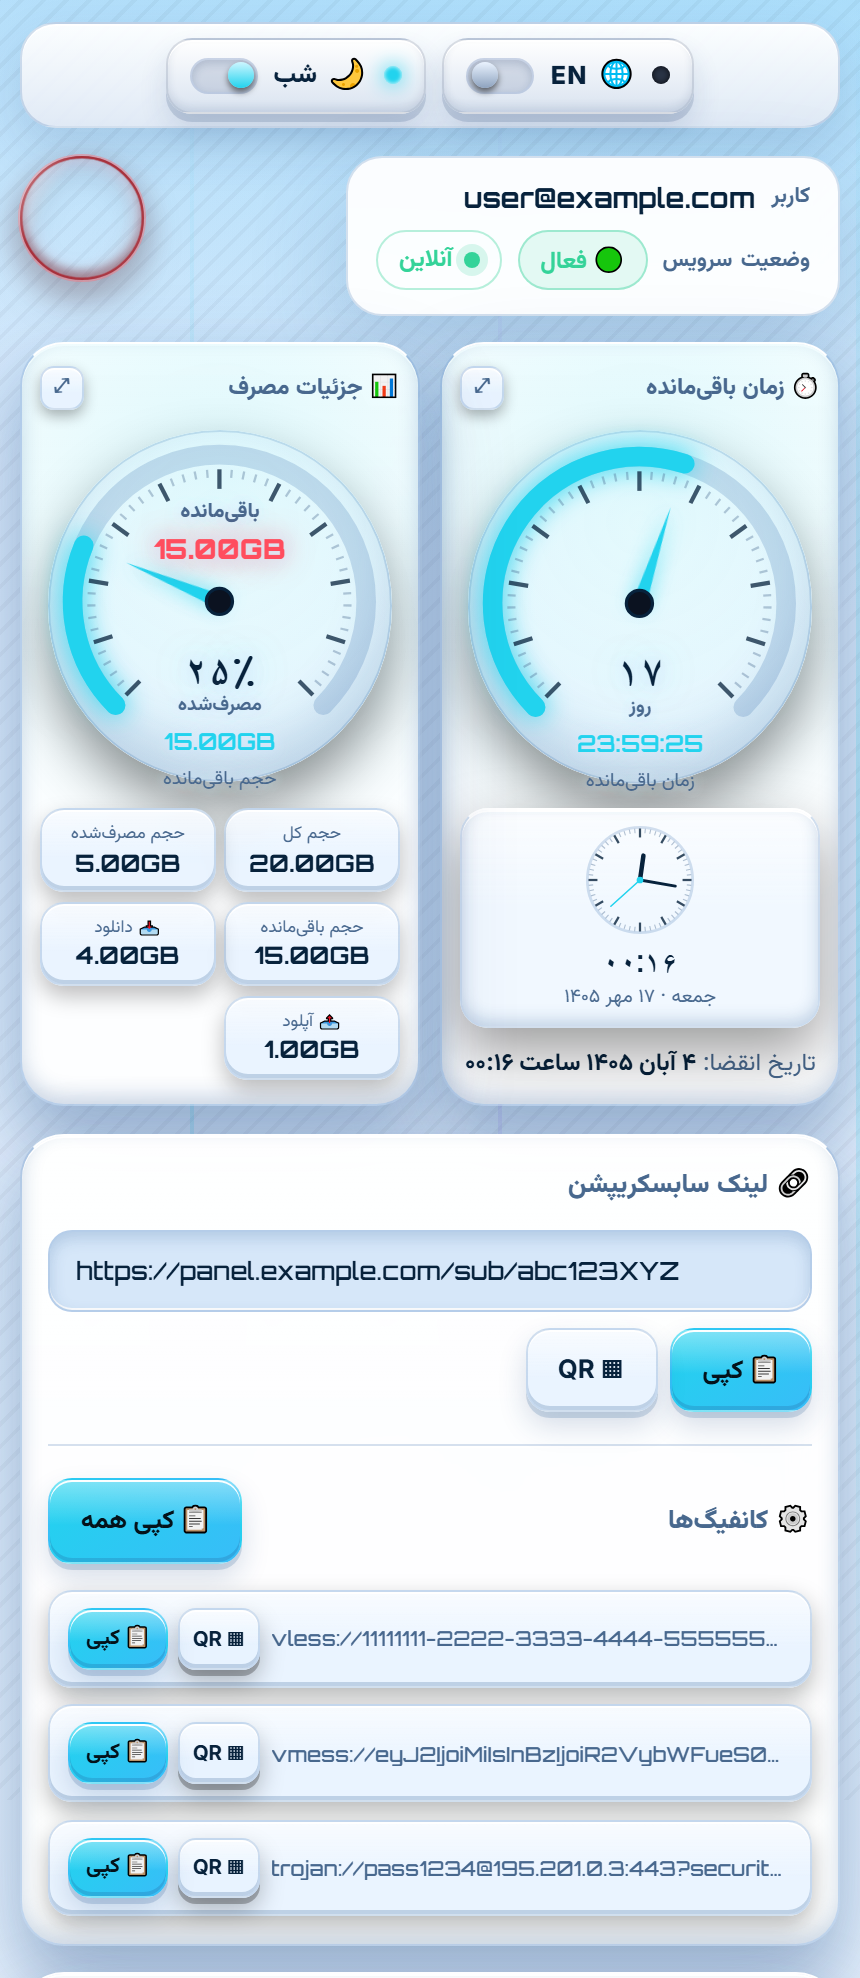
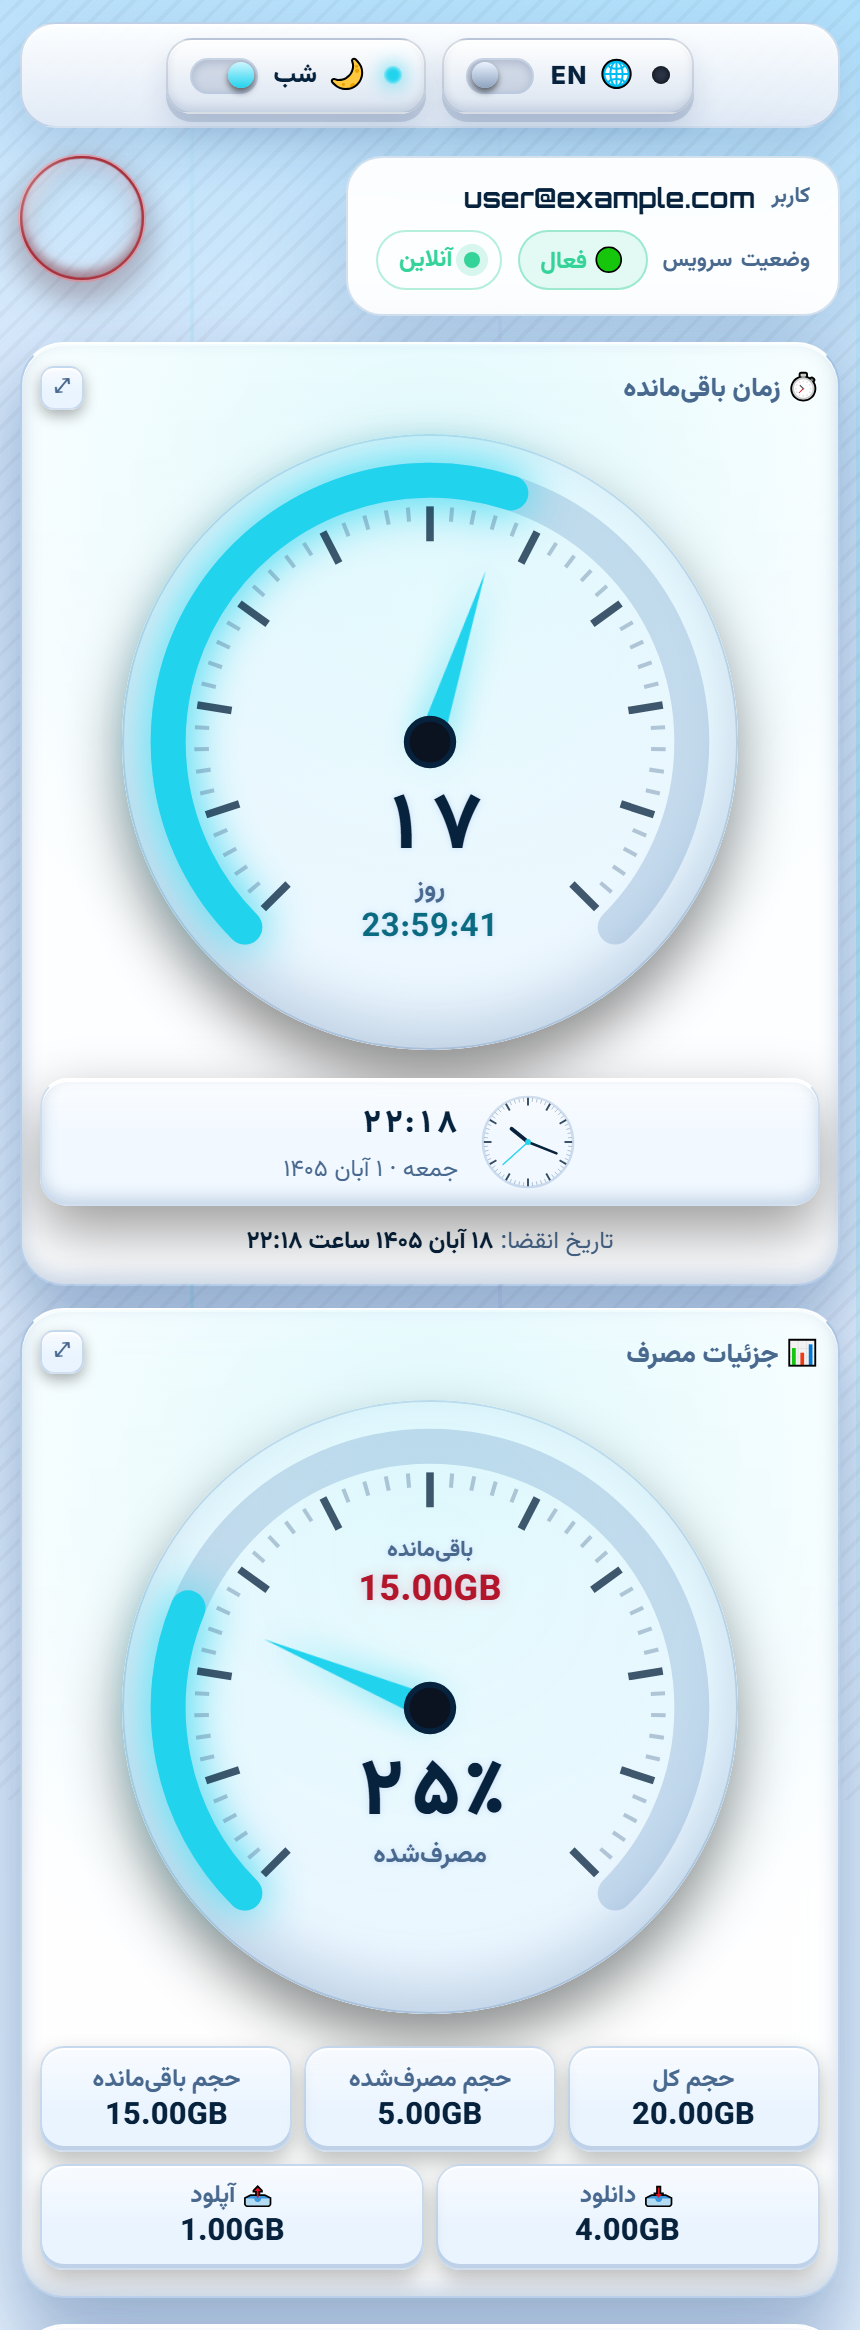
Speed: make the dial numbers readable on phones and in day mode
The remaining-time and usage figures were set in Orbitron at 9-13px and sized
off the viewport, so on a phone they overflowed the dial and in day mode the
cyan/red text sat at 1.7:1 and 3:1 contrast against the pale dial.

Numbers now use Vazirmatn with tabular digits and are measured against the dial
(cqw) so they scale with it instead of spilling over the rim; phones get one
card per row, the duplicate captions inside the dial are gone, the liveness
blink is a slow glow, and day mode gets darker inks for text.

🤖 Generated with Codebuff

diff --git a/pages/speed/index.html b/pages/speed/index.html
@@ -39,6 +39,13 @@
       --gloss: rgba(255, 255, 255, 0.09);
       --emboss-drop: 0 16px 30px rgba(0, 0, 0, 0.5);
       --font-dig: "Orbitron", "Inter", monospace;
+      /* numbers and labels you have to read at a glance: a plain UI face with
+         tabular digits — the wide sci-fi display font is unreadable at 9-13px */
+      --font-read: "Vazirmatn", "Inter", system-ui, sans-serif;
+      /* text on the dial: the neon accents are for strokes and glows, they are
+         too light to carry small text (especially in day mode) */
+      --accent-ink: var(--accent);
+      --bad-ink: var(--bad);
       --radius: 22px;
     }
 
@@ -59,6 +66,10 @@
       --emboss-lo: rgba(30, 80, 140, 0.22);
       --gloss: rgba(255, 255, 255, 0.7);
       --emboss-drop: 0 16px 28px rgba(25, 70, 130, 0.22);
+      /* daylight needs clearly darker ink: cyan/red on a pale blue page drops to
+         ~2:1 contrast, which is what made the dial values hard to read */
+      --accent-ink: #0a6a80;
+      --bad-ink: #b3152b;
     }
 
     * { box-sizing: border-box; }
@@ -255,9 +266,15 @@
     .presence-dot { width: 8px; height: 8px; border-radius: 50%; background: currentColor; }
     .presence.online .presence-dot { box-shadow: 0 0 0 4px rgba(52, 211, 153, 0.18); animation: pulse 1.8s ease infinite; }
     @keyframes pulse { 0%, 100% { opacity: 1; } 50% { opacity: 0.4; } }
+    /* a slow glow, not a strobe: the old 0.35 opacity + shrink made the value
+       disappear for half of every 1.25s cycle, which is what read as "unclear" */
     @keyframes remained-blink {
-      0%, 100% { opacity: 1; transform: scale(1); }
-      50% { opacity: 0.35; transform: scale(0.94); }
+      0%, 100% { opacity: 1; }
+      50% { opacity: 0.76; }
+    }
+    @media (prefers-reduced-motion: reduce) {
+      .gauge-remained { animation: none; }
+      .speed-line { animation: none; }
     }
 
     @keyframes fadeUp { from { opacity: 0; transform: translateY(10px); } to { opacity: 1; transform: none; } }
@@ -368,10 +385,16 @@
       align-items: stretch;
     }
     @media (min-width: 760px) { .cluster { gap: 1rem; } }
+    /* two half-width dials on a 390px phone leave ~160px per dial: the readouts
+       inside them can never be read at that size, so phones get one per row */
+    @media (max-width: 560px) { .cluster { grid-template-columns: minmax(0, 1fr); gap: 0.7rem; } }
 
     .gauge-card {
       position: relative;
       min-width: 0;
+      /* every label inside the card sizes itself from the card width, so a
+         narrow phone card shrinks as a whole instead of overlapping */
+      container: gauge-card / inline-size;
       /* raised dashboard housing: gloss on top, highlight inside, shade below */
       background: linear-gradient(180deg, var(--gloss), transparent 42%), var(--panel);
       background-clip: padding-box;
@@ -427,7 +450,8 @@
     .card-head {
       position: relative; z-index: 2;
       display: flex; align-items: center; justify-content: space-between; gap: 0.4rem;
-      font-size: clamp(0.58rem, 2.7vw, 0.78rem); font-weight: 800; letter-spacing: 0.06em;
+      font-size: clamp(0.72rem, 3.1vw, 0.84rem);
+      font-size: clamp(0.68rem, 3.4cqw, 0.86rem); font-weight: 800; letter-spacing: 0.03em;
       color: var(--muted); text-transform: uppercase;
       margin-bottom: 0.4rem;
       line-height: 1.25;
@@ -438,7 +462,7 @@
        so the two cards stay balanced at equal height */
     .gauge-wrap { position: relative; display: grid; place-items: center; flex: 1 1 auto; }
 
-    .gauge { position: relative; width: min(100%, 320px); aspect-ratio: 1 / 1; }
+    .gauge { position: relative; width: min(100%, 320px); aspect-ratio: 1 / 1; container: dial / size; }
     .gauge-card.zoomed .gauge { width: min(100%, 460px); }
 
     /* embossed instrument dial behind the SVG (rim light + deep inner shade) */
@@ -470,64 +494,71 @@
     .needle-base { fill: #0b1220; stroke: var(--txt); stroke-width: 2; }
 
     .gauge-readout {
-      position: absolute; z-index: 2; left: 50%; top: 62%; transform: translate(-50%, 0);
+      position: absolute; z-index: 2; left: 50%; top: 57%; transform: translate(-50%, 0);
       display: flex; flex-direction: column; align-items: center; gap: 0.05rem;
       text-align: center; pointer-events: none; width: 78%;
     }
     .readout-big {
-      font-family: var(--font-dig); font-size: clamp(1rem, 4.6vw, 2.2rem);
-      font-weight: 800; line-height: 1; letter-spacing: 0.02em;
+      /* the vw line is the fallback for browsers without container queries */
+      font-size: clamp(1rem, 6vw, 2.3rem);
+      font-family: var(--font-read); font-size: clamp(0.95rem, 12.5cqw, 3.2rem);
+      font-weight: 800; line-height: 1.05; letter-spacing: 0;
       color: var(--txt);
-      /* halo keeps the digits readable when the needle sweeps over them */
-      text-shadow: 0 0 6px var(--bg), 0 0 12px var(--bg), 0 0 20px rgba(34, 211, 238, 0.35);
+      /* tabular digits stop the countdown from jittering every second */
+      font-variant-numeric: tabular-nums; font-feature-settings: "tnum" 1;
+      /* a tight halo only — a wide blur eats the glyph edges and blurs them */
+      text-shadow: 0 0 2px var(--bg), 0 0 4px var(--bg);
     }
     .readout-unit {
-      font-size: clamp(0.5rem, 2.2vw, 0.72rem); font-weight: 700; color: var(--muted);
-      text-transform: uppercase; letter-spacing: 0.1em;
-      text-shadow: 0 0 6px var(--bg), 0 0 12px var(--bg);
+      font-size: clamp(0.6rem, 2.6vw, 0.78rem);
+      font-size: clamp(0.54rem, 5.4cqw, 0.8rem); font-weight: 700; color: var(--muted);
+      text-transform: uppercase; letter-spacing: 0.04em; line-height: 1.2;
+      text-shadow: 0 0 2px var(--bg), 0 0 4px var(--bg);
     }
     .readout-sub {
-      font-family: var(--font-dig); font-size: clamp(0.56rem, 2.7vw, 0.82rem);
-      font-weight: 600; color: var(--accent); margin-top: 0.15rem;
-      text-shadow: 0 0 6px var(--bg), 0 0 12px var(--bg);
-    }
-    .readout-cap {
-      font-size: clamp(0.54rem, 2.2vw, 0.66rem); color: var(--muted); margin-top: 0.2rem;
-      text-shadow: 0 0 6px var(--bg), 0 0 12px var(--bg);
+      font-size: clamp(0.72rem, 3.4vw, 1rem);
+      font-family: var(--font-read); font-size: clamp(0.62rem, 6.6cqw, 1.02rem);
+      font-weight: 700; color: var(--accent-ink); margin-top: 0.2rem;
+      font-variant-numeric: tabular-nums; letter-spacing: 0.02em; line-height: 1.2;
+      text-shadow: 0 0 2px var(--bg), 0 0 4px var(--bg);
     }
 
-    /* the readout scales up when the gauge is blown up */
-    .gauge-card.zoomed .readout-big { font-size: clamp(2rem, 6.5vw, 3rem); }
-    .gauge-card.zoomed .readout-unit { font-size: 0.82rem; }
-    .gauge-card.zoomed .readout-sub { font-size: 1rem; }
-    .gauge-card.zoomed .readout-cap { font-size: 0.74rem; }
+    /* the readout scales up when the gauge is blown up — still measured against
+       the dial, so the blown-up card is the only thing that gets bigger */
+    .gauge-card.zoomed .readout-big { font-size: clamp(2rem, 12.5cqw, 3.4rem); }
+    .gauge-card.zoomed .readout-unit { font-size: clamp(0.7rem, 5.4cqw, 1rem); }
+    .gauge-card.zoomed .readout-sub { font-size: clamp(0.8rem, 6.6cqw, 1.35rem); }
 
-    /* حجم باقیمانده روی صفحهٔ گیج: برچسب «باقیمانده» + مقدار قرمز چشمکزن،
-       وسط نیمهٔ بالایی دایره — همفاصله از مرکز دایره و نشانگرِ ۱۲ ساعت */
+    /* حجم باقیمانده روی صفحهٔ گیج: برچسب «باقیمانده» + مقدار قرمز با درخشش
+       آرام، وسط نیمهٔ بالایی دایره — همفاصله از مرکز دایره و نشانگرِ ۱۲ ساعت */
     .gauge-remained-wrap {
       position: absolute; z-index: 2; left: 50%; top: 29.2%; transform: translate(-50%, -50%);
       display: flex; flex-direction: column; align-items: center; gap: 0.14rem;
       text-align: center; white-space: nowrap; pointer-events: none;
     }
     .gauge-remained-cap {
-      font-size: clamp(0.5rem, 2.4vw, 0.64rem); font-weight: 800; letter-spacing: 0.05em;
+      font-size: clamp(0.56rem, 2.4vw, 0.7rem);
+      font-size: clamp(0.46rem, 4.3cqw, 0.7rem); font-weight: 700; letter-spacing: 0.02em;
       color: var(--muted);
-      text-shadow: 0 0 8px var(--bg), 0 0 12px var(--bg);
+      text-shadow: 0 0 2px var(--bg), 0 0 4px var(--bg);
     }
     .gauge-remained {
       direction: ltr;
-      font-family: var(--font-dig); font-size: clamp(0.66rem, 3.2vw, 0.86rem);
-      font-weight: 900; color: var(--bad); line-height: 1;
-      text-shadow: 0 0 8px var(--bg), 0 0 14px rgba(255, 77, 94, 0.6);
-      animation: remained-blink 1.25s ease-in-out infinite;
+      font-size: clamp(0.66rem, 3.4vw, 0.98rem);
+      font-family: var(--font-read); font-size: clamp(0.56rem, 5.6cqw, 1.2rem);
+      font-weight: 800; color: var(--bad-ink); line-height: 1.15;
+      font-variant-numeric: tabular-nums; letter-spacing: 0.01em;
+      text-shadow: 0 0 2px var(--bg), 0 0 6px rgba(255, 77, 94, 0.32);
+      animation: remained-blink 2.4s ease-in-out infinite;
     }
-    .gauge-card.zoomed .gauge-remained { font-size: 1.02rem; }
-    .gauge-card.zoomed .gauge-remained-cap { font-size: 0.74rem; }
+    .gauge-card.zoomed .gauge-remained { font-size: 1.16rem; }
+    .gauge-card.zoomed .gauge-remained-cap { font-size: 0.8rem; }
 
     .gauge-foot {
       position: relative; z-index: 2;
       margin-top: auto; padding-top: 0.5rem; text-align: center;
-      font-size: clamp(0.64rem, 2.8vw, 0.8rem); color: var(--muted); line-height: 1.4;
+      font-size: clamp(0.72rem, 2.9vw, 0.84rem);
+      font-size: clamp(0.66rem, 3.1cqw, 0.86rem); color: var(--muted); line-height: 1.45;
     }
     .gauge-card.zoomed .gauge-foot { font-size: 0.98rem; padding-top: 0.85rem; }
     .gauge-foot strong { color: var(--txt); font-weight: 700; }
@@ -554,8 +585,8 @@
     .clock-hand.minute { stroke-width: 2.6; }
     .clock-hand.second { stroke: var(--accent); stroke-width: 1.4; }
     .clock-hub { fill: var(--accent); }
-    .clock-digital { font-family: var(--font-dig); font-size: 0.95rem; font-weight: 700; letter-spacing: 0.05em; }
-    .clock-date { font-size: 0.62rem; color: var(--muted); text-align: center; line-height: 1.35; }
+    .clock-digital { font-family: var(--font-read); font-size: 1rem; font-weight: 800; letter-spacing: 0.02em; font-variant-numeric: tabular-nums; }
+    .clock-date { font-size: 0.7rem; color: var(--muted); text-align: center; line-height: 1.4; }
     .clock-event {
       font-size: 0.6rem; color: var(--warn); text-align: center; line-height: 1.35;
       border-top: 1px dashed var(--line); padding-top: 0.2rem; margin-top: 0.1rem;
@@ -564,14 +595,21 @@
 
     /* narrow cards (phones): the clock drops under the dial so it stays readable */
     @media (max-width: 720px) {
+      /* the badge leaves the dial corner and becomes a wide strip under it, so
+         the clock, the time and the date sit on one line instead of a tall box */
       .clock-badge {
-        position: static; width: 100%; margin-top: 0.4rem;
-        padding: 0.45rem 0.35rem 0.5rem; border-radius: 14px;
+        position: static; width: 100%; margin-top: 0.5rem;
+        padding: 0.45rem 0.6rem; border-radius: 14px;
+        flex-direction: row; align-items: center; justify-content: center; gap: 0.7rem;
       }
-      .clock-face { width: 56px; height: 56px; }
-      .clock-digital { font-size: 0.9rem; }
-      .clock-date { font-size: 0.6rem; }
-      .clock-event { font-size: 0.58rem; }
+      .clock-face { width: 48px; height: 48px; flex: 0 0 auto; }
+      .clock-info { align-items: flex-start; gap: 0.08rem; }
+      .clock-digital { font-size: 1rem; }
+      .clock-date { font-size: 0.74rem; text-align: start; }
+      .clock-event {
+        font-size: 0.68rem; text-align: start;
+        border-top: none; padding-top: 0; margin-top: 0;
+      }
     }
 
     /* zoomed gauge: clock off — the expiry date under the dial says it all */
@@ -581,9 +619,13 @@
     .usage-details {
       position: relative; z-index: 2;
       margin-top: 0.6rem;
-      display: grid; grid-template-columns: repeat(3, 1fr); gap: 0.45rem;
+      display: grid; grid-template-columns: repeat(6, minmax(0, 1fr)); gap: 0.45rem;
     }
-    @media (max-width: 560px) { .usage-details { grid-template-columns: repeat(2, minmax(0, 1fr)); gap: 0.3rem; } }
+    /* five figures over six tracks: two rows of 3, then two half-width cells
+       instead of a lopsided row with an empty hole */
+    .ud { grid-column: span 2; }
+    .ud:nth-child(4), .ud:nth-child(5) { grid-column: span 3; }
+    @media (max-width: 560px) { .usage-details { gap: 0.35rem; } }
     .ud {
       border: 1px solid var(--line);
       background: linear-gradient(180deg, var(--gloss), transparent 60%), var(--panel-2);
@@ -591,10 +633,17 @@
       border-radius: 12px; padding: 0.4rem 0.35rem;
       display: flex; flex-direction: column; gap: 0.12rem; text-align: center; min-width: 0;
     }
-    .ud span { font-size: clamp(0.48rem, 2vw, 0.62rem); color: var(--muted); line-height: 1.2; }
-    .ud b { font-family: var(--font-dig); font-size: clamp(0.56rem, 2.8vw, 0.82rem); font-weight: 700; word-break: break-all; }
-    .gauge-card.zoomed .ud span { font-size: 0.64rem; }
-    .gauge-card.zoomed .ud b { font-size: 0.95rem; }
+    .ud span { font-size: clamp(0.64rem, 2.7vw, 0.75rem); font-size: clamp(0.58rem, 3.3cqw, 0.76rem); font-weight: 700; color: var(--muted); line-height: 1.35; }
+    .ud b {
+      font-family: var(--font-read); font-size: clamp(0.74rem, 3.1vw, 0.94rem);
+      font-size: clamp(0.68rem, 4.1cqw, 0.96rem);
+      font-weight: 800; color: var(--txt); line-height: 1.3;
+      font-variant-numeric: tabular-nums; letter-spacing: 0.01em;
+      /* the value is a unit token: never split "12.50 GB" in two */
+      white-space: nowrap;
+    }
+    .gauge-card.zoomed .ud span { font-size: 0.8rem; }
+    .gauge-card.zoomed .ud b { font-size: 1.05rem; }
 
     /* ---------- generic panels ---------- */
     .panel {
@@ -850,10 +899,8 @@
       box-shadow: 0 30px 80px rgba(0, 0, 0, 0.6);
     }
     .zoom-panel .gauge-card .gauge { width: min(100%, 430px); }
-    .zoom-panel .gauge-card .readout-big { font-size: clamp(2.1rem, 7vw, 3.1rem); }
-    .zoom-panel .gauge-card .readout-unit { font-size: 0.84rem; }
-    .zoom-panel .gauge-card .readout-sub { font-size: 1.05rem; }
-    .zoom-panel .gauge-card .readout-cap { font-size: 0.76rem; }
+    /* readout sizes are intentionally not overridden here: they follow the dial
+       (cqw) and grow on their own inside the zoom stage */
     .zoom-panel .gauge-card .card-head { font-size: 0.84rem; }
     .zoom-panel .gauge-card .gauge-foot { font-size: 1rem; padding-top: 0.9rem; }
     .zoom-panel .gauge-card .ud span { font-size: 0.66rem; }
@@ -938,7 +985,6 @@
               <strong class="readout-big" id="timeBig">00</strong>
               <span class="readout-unit" data-i18n="unitDays">روز</span>
               <span class="readout-sub" id="timeSub">00:00:00</span>
-              <span class="readout-cap" data-i18n="timeCap">زمان باقیمانده</span>
             </div>
           </div>
 
@@ -991,8 +1037,6 @@
             <div class="gauge-readout">
               <strong class="readout-big" id="usageBig">۰٪</strong>
               <span class="readout-unit" data-i18n="usedShort">مصرفشده</span>
-              <span class="readout-sub" id="usageSub">—</span>
-              <span class="readout-cap" data-i18n="remainedCap">حجم باقیمانده</span>
             </div>
           </div>
         </div>
@@ -1532,7 +1576,6 @@
 
       const pctText = Math.round(percent) + t("pct");
       set("usageBig", lang === "fa" ? toPersianDigits(pctText) : pctText);
-      set("usageSub", remainedText);
       set("usageRemained", remainedText);
 
       const alertVol = document.getElementById("alertVol");
